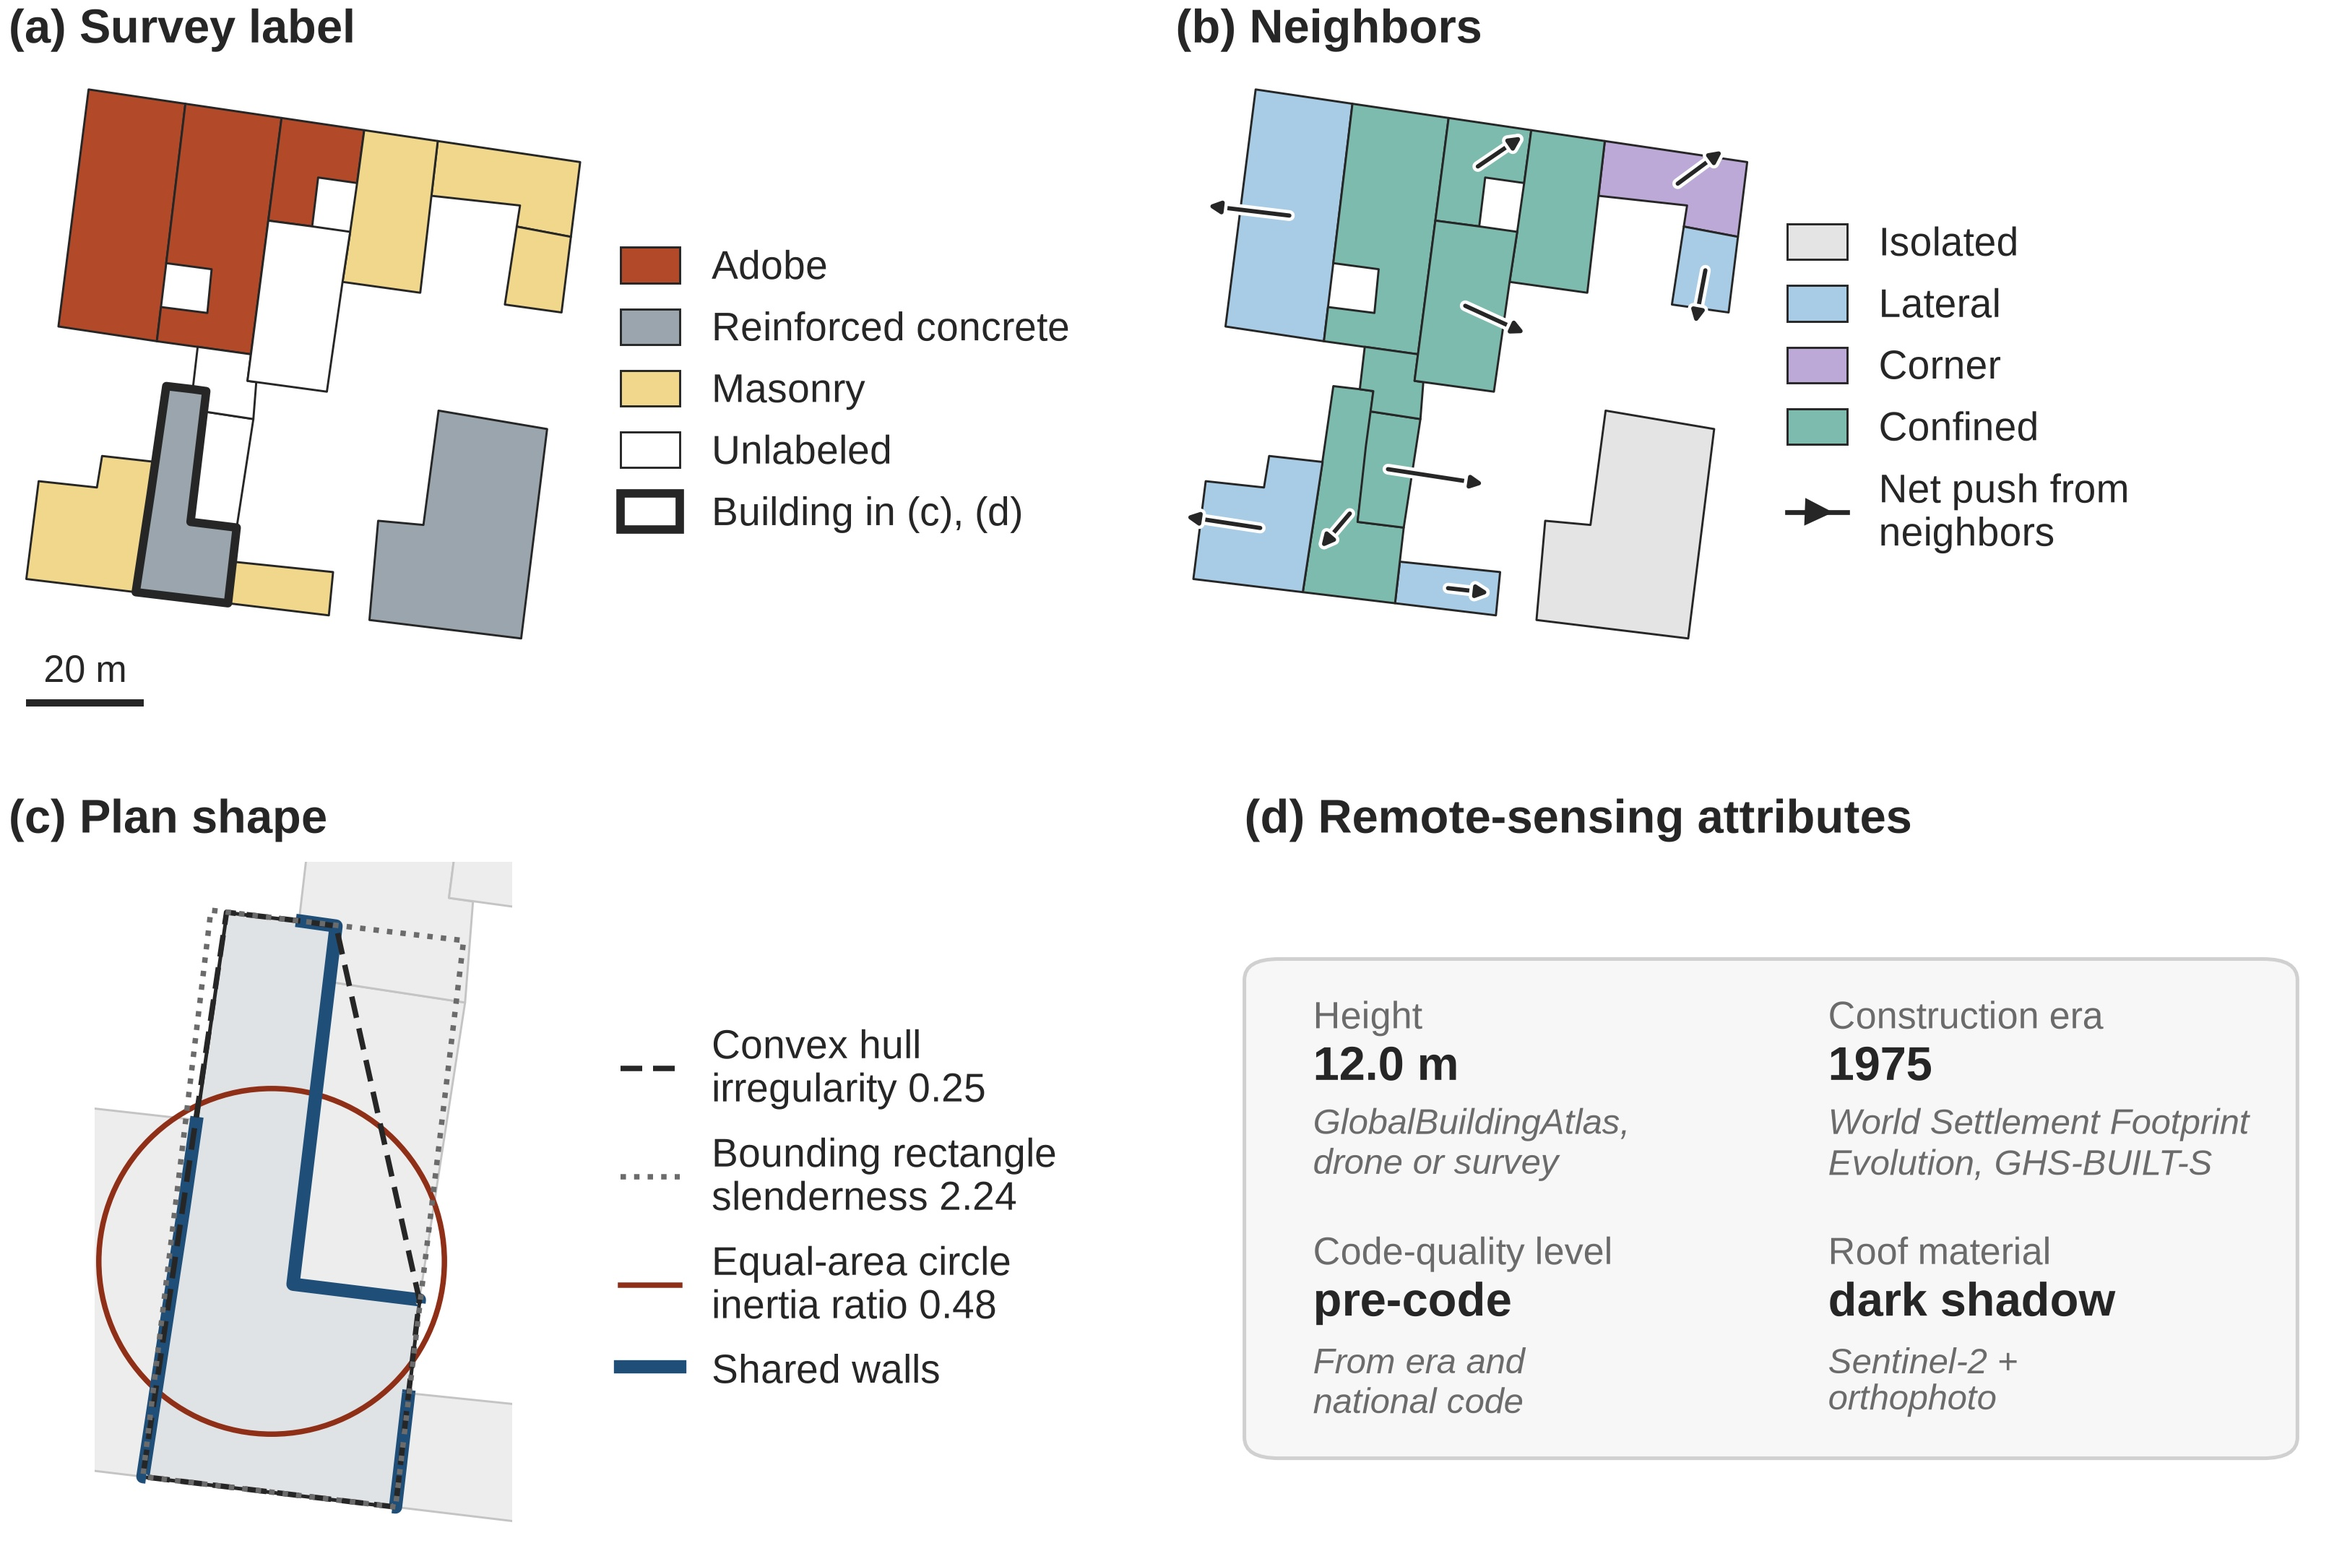
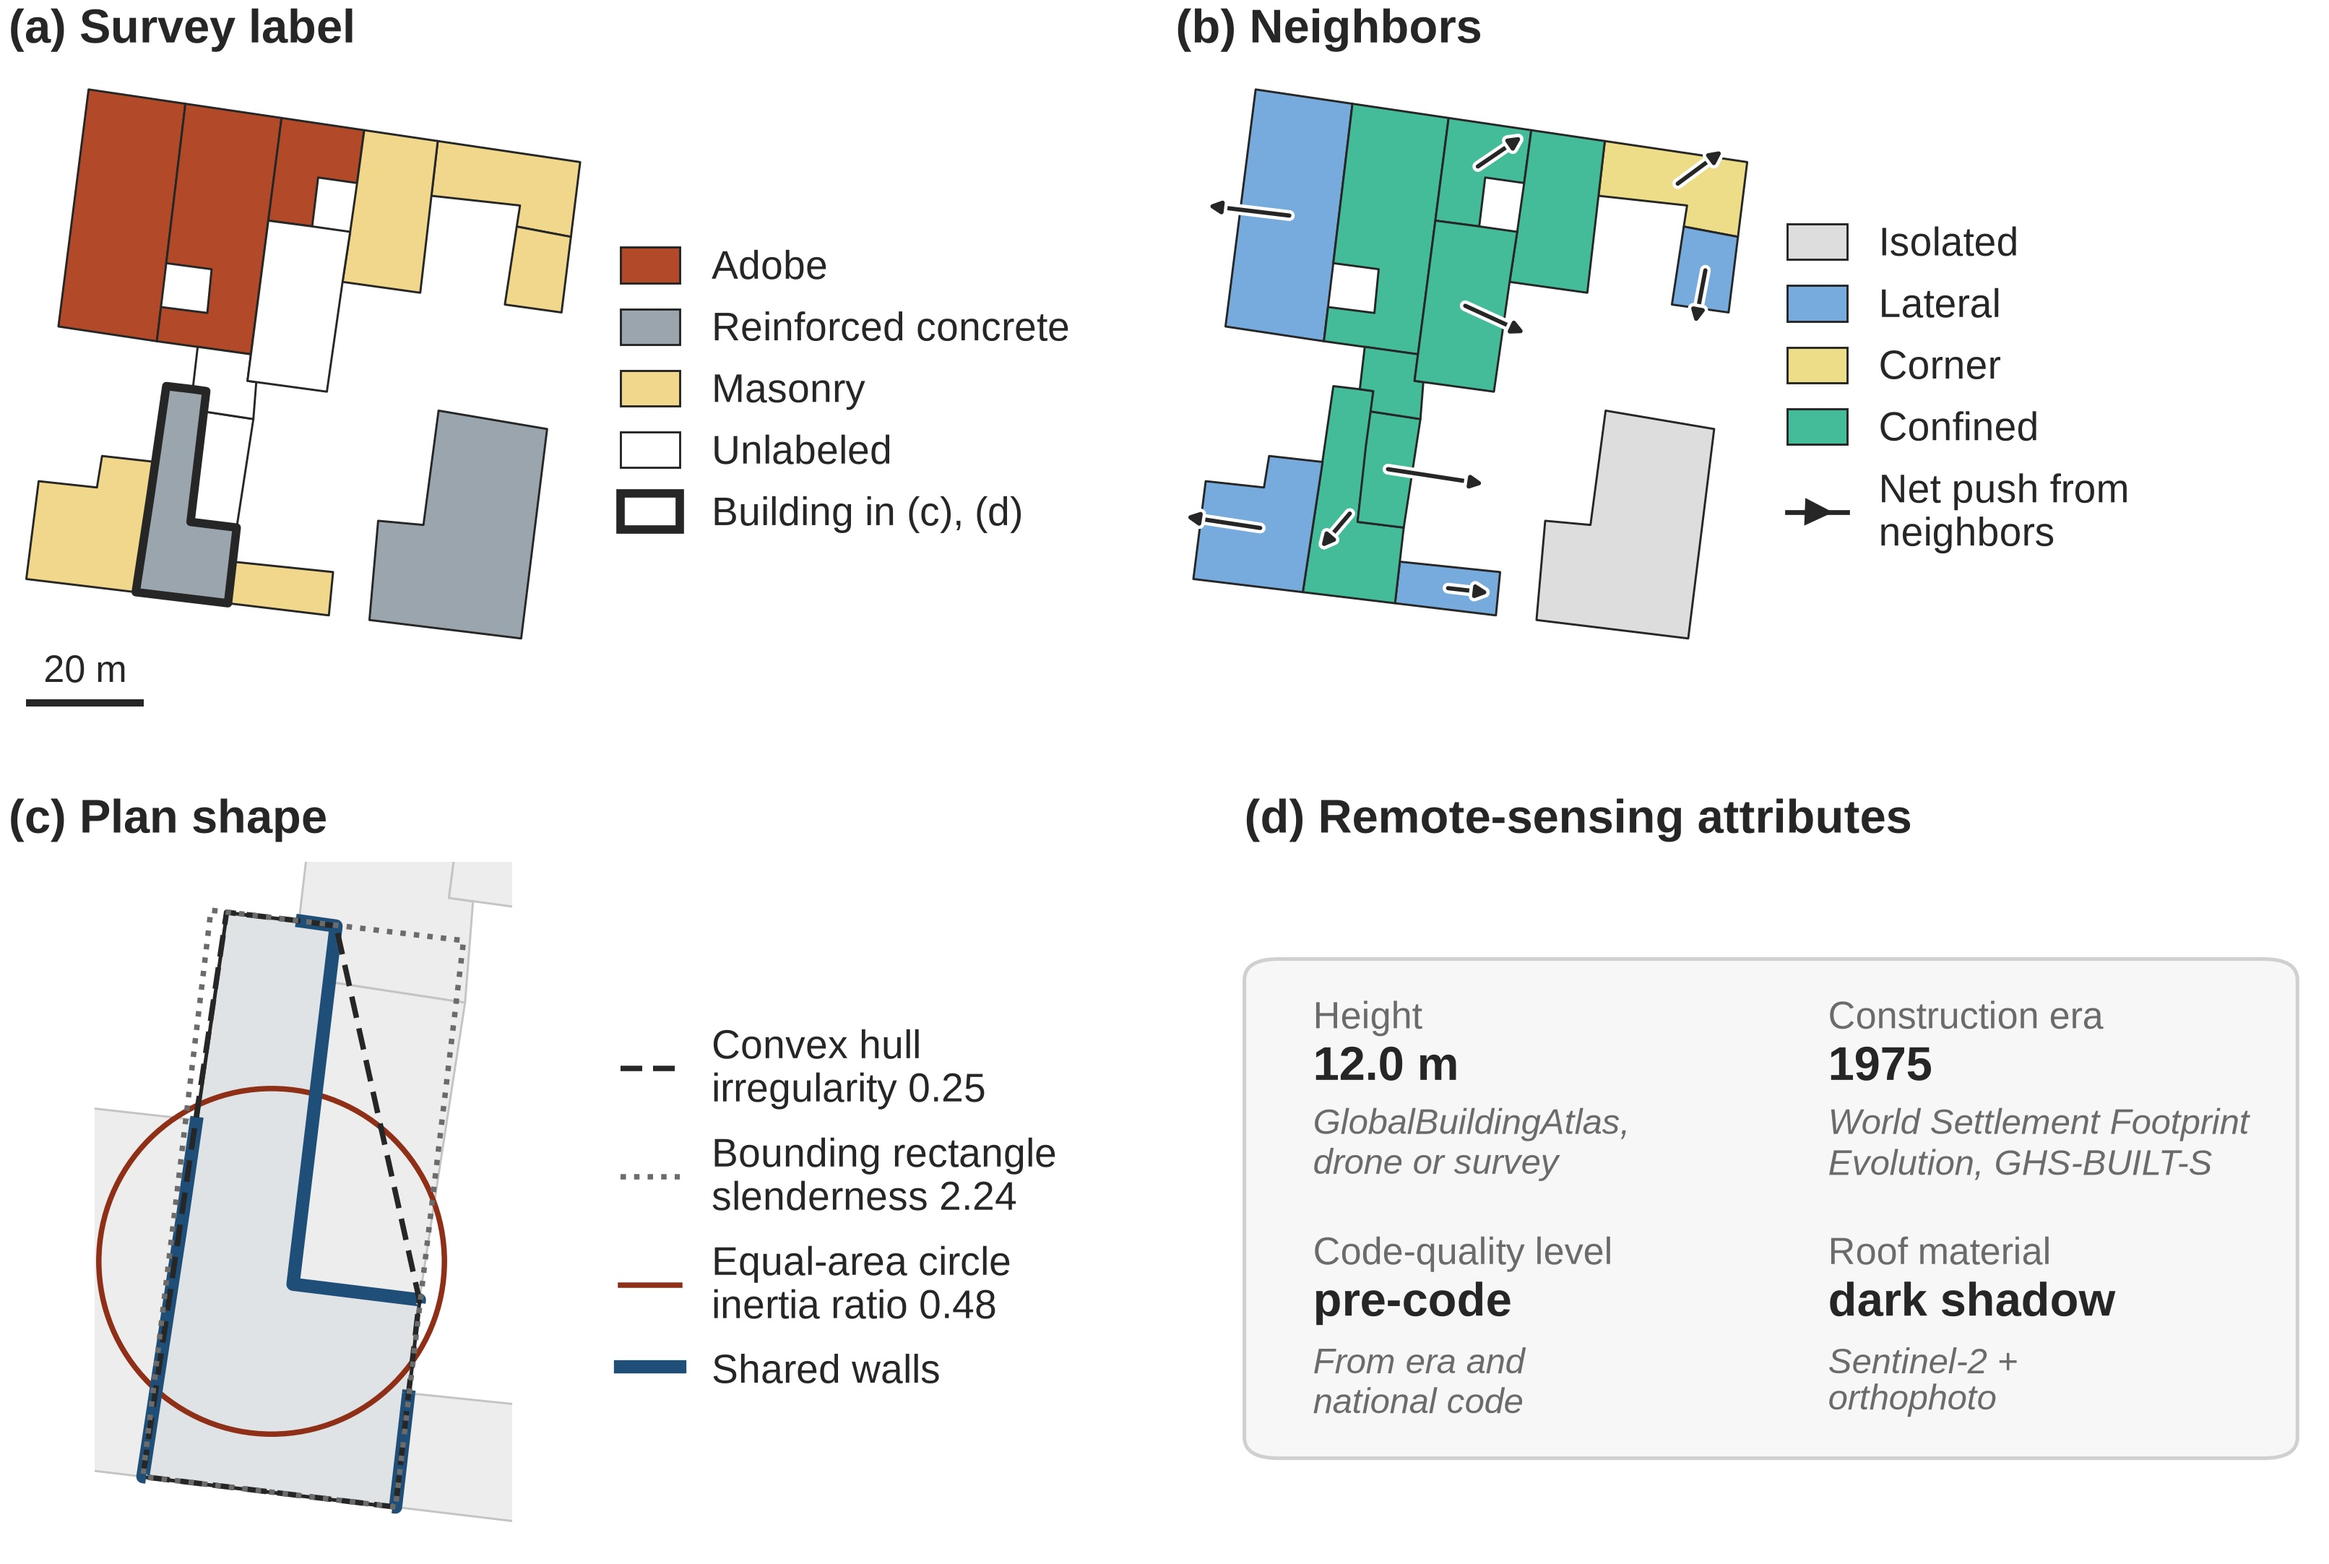
S/W class, colors, pin footprint_attributes v1.1.1

Changed region(s): [[0.4963, 0.0619, 0.8065, 0.4023]]

diff --git a/docs/map/map.js b/docs/map/map.js
@@ -20,7 +20,7 @@ const OUTLINE = { light: "#000000", dark: "#ffffff" };
 const NO_DATA = { light: "#f3f3f1", dark: "#2a2f35" };
 const LAYER = "buildings";  // layer name inside the .pmtiles files
 
-const CLASS_NAMES = { ADO: "Adobe", CR: "Reinforced concrete", M: "Masonry", S: "Steel" };
+const CLASS_NAMES = { ADO: "Adobe", CR: "Reinforced concrete", M: "Masonry", S: "Light steel and wood (S/W)" };
 const CLASS_COLORS = {
   light: { ADO: "#B24A2A", CR: "#8A949E", M: "#F0D78C", S: "#2F6DB5" },
   dark: { ADO: "#D2694A", CR: "#A9B3BC", M: "#F0D78C", S: "#5FA2EC" },
@@ -42,8 +42,8 @@ const VIEWS = {
     metallic: ["Metallic", "#9e9ac8"], bright_concrete: ["Bright concrete", "#e0e0e0"],
     dark_shadow: ["Dark or shadow", "#525252"], asphalt: ["Asphalt", "#8c6d31"] } },
   position: { label: "Position in the block", type: "cat", values: {
-    isolated: ["Isolated", "#E4E4E4"], lateral: ["Lateral", "#A8CBE6"], corner: ["Corner", "#BCA9D8"],
-    confined: ["Confined", "#7DBBAE"], torque: ["Torque", "#DE95A3"] } },
+    isolated: ["Isolated", "#DDDDDD"], lateral: ["Lateral", "#77AADD"], corner: ["Corner", "#EEDD88"],
+    confined: ["Confined", "#44BB99"], torque: ["Torque", "#BBCC33"] } },
   hull: { label: "Convex-hull irregularity", type: "ramp", domain: [0, 0.4] },
   eccentricity: { label: "Eccentricity ratio (Eurocode 8)", type: "ramp", domain: [0, 0.4] },
   compact: { label: "Compactness (Eurocode 8)", type: "ramp", domain: [0.6, 1] },

diff --git a/analysis/method_figures.py b/analysis/method_figures.py
@@ -21,7 +21,8 @@ import matplotlib.pyplot as plt
 import numpy as np
 import pandas as pd
 from footprint_attributes import position
-from footprint_attributes.geometry import max_inscribed_circle, min_bounding_box, setback_pieces
+from footprint_attributes.geometry import (main_element_a_lengths, max_inscribed_circle, min_bounding_box,
+                                           setback_pieces)
 from footprint_attributes.notebook_utils import basic_length_axis, dimension_arrow_gdfs
 from footprint_attributes.position import contact_force_vectors
 from footprint_attributes.testing_shapes import (asymmetric_l_shape_polygon, confined_quartet_gdf,
@@ -513,10 +514,11 @@ def fig_study_area() -> None:
 # Figure: footprint descriptors on simple shapes
 # ---------------------------------------------------------------------------
 
+RECT_COLOR, RECT_STYLE = "#B07A1F", (0, (4, 1.5, 1, 1.5))  # inscribed rectangle: ochre, dash-dot
 SIZE_STYLE = {  # dimension kind: (color, line style, legend label)
     "L1": (INK, "-", "Basic lengths $L_1$, $L_2$"),
     "L2": (INK, "-", None),
-    "a1": (BLUES[5], "-", "Main element $a_1$, $a_2$"),
+    "a1": (BLUES[5], "-", "Main element $a$"),
     "a2": (BLUES[5], "-", None),
     "b": ("#8F2F18", "-", "Setback $b$"),
 }
@@ -564,8 +566,18 @@ def fig_footprint_descriptors() -> None:
                                                              linewidth=0.5, linestyle=(0, (1, 1.5)), zorder=3)
         x, y, r = max_inscribed_circle(poly)
         ax.add_patch(Circle((x, y), r, fill=False, ec=BLUES[5], lw=0.6, ls=(0, (3, 1.5)), zorder=3))
+        # inscribed rectangle: a2 along dir1, a1 along dir2, around the circle's tangent points
+        u, v = np.asarray(d1)[0], np.asarray(d2)[0]
+        a1, a2, (mx, my) = main_element_a_lengths(poly, u, v)
+        corners = [np.array([mx, my]) + su * a2 / 2 * u + sv * a1 / 2 * v
+                   for su, sv in ((-1, -1), (1, -1), (1, 1), (-1, 1), (-1, -1))]
+        ax.plot(*np.array(corners).T, color=RECT_COLOR, lw=0.8, ls=RECT_STYLE, zorder=4)
         axis = basic_length_axis(g, L1, d1, L2, d2)
+        # GNDT-II uses only the dominant (a, L) pair, the one maximizing L*a (footprint_attributes)
+        dominant_a = "a1" if axis["L1"][0] * axis["a1"][0] >= axis["L2"][0] * axis["a2"][0] else "a2"
         for kind, arrows in dimension_arrow_gdfs(g, axis).items():
+            if kind in ("a1", "a2") and kind != dominant_a:
+                continue
             if kind in SIZE_STYLE and len(arrows):
                 color, ls, _ = SIZE_STYLE[kind]
                 arrows.plot(ax=ax, color=color, linestyle=ls, linewidth=0.8, zorder=5)
@@ -577,9 +589,10 @@ def fig_footprint_descriptors() -> None:
     handles = [Line2D([0], [0], color=c, ls=ls, lw=0.8, label=lab) for c, ls, lab in SIZE_STYLE.values() if lab]
     handles += [Patch(facecolor=BLUES[1], edgecolor="none", label="Setback area"),
                 Line2D([0], [0], color=BLUES[5], lw=0.6, ls=(0, (3, 1.5)), label="Largest inscribed circle"),
+                Line2D([0], [0], color=RECT_COLOR, lw=0.8, ls=RECT_STYLE, label="Inscribed rectangle"),
                 Line2D([0], [0], color=MUTED, lw=0.5, ls=(0, (1, 1.5)), label="Bounding rectangle")]
-    fig.legend(handles=handles, loc="center", ncol=3, frameon=False, fontsize=6.4,
-               bbox_to_anchor=(0.5, 0.465), handlelength=1.8, columnspacing=1.2)
+    fig.legend(handles=handles, loc="center", ncol=4, frameon=False, fontsize=6.4,
+               bbox_to_anchor=(0.5, 0.465), handlelength=1.8, columnspacing=1.0)
 
     for k, (name, gdf) in enumerate(scenarios):
         ax = fig.add_subplot(bottom[0, k])

diff --git a/analysis/paper_style.py b/analysis/paper_style.py
@@ -8,7 +8,7 @@ Palette logic:
   the train/validation/test partitions.
 - Structural classes use "material" colors, distinct from the blue ramp:
   brick red (adobe), concrete gray (reinforced concrete), sand (masonry) and
-  dark slate (steel), far enough apart in lightness to survive color blindness.
+  dark slate (light steel and wood), far enough apart in lightness to survive color blindness.
 - Relative-position categories use distinct muted hues (a single blue ramp
   was too hard to tell apart on a map).
 """
@@ -29,15 +29,18 @@ BLUES = ["#F2F6FA", "#D6E4F0", "#A9C6DF", "#6F9CC3", "#3E6F9E", "#1F4E79"]
 ACCENT = BLUES[5]
 PARTITION_COLORS = {"train": BLUES[5], "validation": BLUES[3], "test": BLUES[1]}
 POSITION_COLORS = {
-    "isolated": "#E4E4E4",  # gray
-    "lateral": "#A8CBE6",   # sky blue
-    "corner": "#BCA9D8",    # lavender
-    "confined": "#7DBBAE",  # teal
-    "torque": "#DE95A3",    # rose
+    # Paul Tol's "light" scheme, distinguishable with deuteranopia, protanopia and tritanopia
+    "isolated": "#DDDDDD",  # pale gray
+    "lateral": "#77AADD",   # light blue
+    "corner": "#EEDD88",    # light yellow
+    "confined": "#44BB99",  # mint
+    "torque": "#BBCC33",    # pear
 }
 
 CLASS_COLORS = {"ADO": "#B24A2A", "CR": "#9AA5AE", "M": "#F0D78C", "S": "#3D4F63"}
-CLASS_NAMES = {"ADO": "Adobe", "CR": "Reinforced concrete", "M": "Masonry", "S": "Steel"}
+CLASS_NAMES = {"ADO": "Adobe", "CR": "Reinforced concrete", "M": "Masonry", "S": "Light steel and wood (S/W)"}
+# Short labels for axes. The data and models keep the code S for light steel and wood.
+CLASS_SHORT = {"ADO": "ADO", "CR": "CR", "M": "M", "S": "S/W"}
 CLASS_ORDER = ["ADO", "CR", "M", "S"]
 
 SEQUENTIAL_CMAP = LinearSegmentedColormap.from_list("paper_blues", ["#FFFFFF"] + BLUES[1:])

diff --git a/analysis/results_figures.py b/analysis/results_figures.py
@@ -17,7 +17,8 @@ import numpy as np
 import pandas as pd
 from sklearn.metrics import confusion_matrix
 
-from paper_style import ACCENT, BLUES, INK, MUTED, SEQUENTIAL_CMAP, TEXT_WIDTH_IN, apply_style, save_figure
+from paper_style import (ACCENT, BLUES, CLASS_SHORT, INK, MUTED, SEQUENTIAL_CMAP, TEXT_WIDTH_IN, apply_style,
+                         save_figure)
 
 GROUP_DIR = Path(__file__).resolve().parent.parent / "experiments"
 OUT = Path(__file__).resolve().parent.parent / "figures"
@@ -101,7 +102,7 @@ def fig_confusion_matrices():
             enc = prep["label_mapping"]
         code_to_name = {v: k for k, v in enc.items()}
         labels = sorted(code_to_name)
-        names = [code_to_name[c] for c in labels]
+        names = [CLASS_SHORT.get(code_to_name[c], code_to_name[c]) for c in labels]
 
         y_true = df["y_true"].to_numpy()
         y_pred = df[f"pred_{model}"].to_numpy()

diff --git a/analysis/make_tables.py b/analysis/make_tables.py
@@ -69,7 +69,8 @@ def table1() -> None:
         print("Table 1 skipped: run data_stats.py first")
         return
     classes = ["ADO", "CR", "M", "S"]
-    lines = [r"\begin{tabular}{lrrrrr}", r"\toprule", "City & $N$ & " + " & ".join(classes) + r" \\", r"\midrule"]
+    header = [c if c != "S" else "S/W" for c in classes]  # code S is light steel and wood
+    lines = [r"\begin{tabular}{lrrrrr}", r"\toprule", "City & $N$ & " + " & ".join(header) + r" \\", r"\midrule"]
     for key, label in [*CITY_NAMES.items(), ("All", "All three cities")]:
         if key == "All":
             lines.append(r"\midrule")

diff --git a/results/tables/table1_class_imbalance.tex b/results/tables/table1_class_imbalance.tex
@@ -1,6 +1,6 @@
 \begin{tabular}{lrrrrr}
 \toprule
-City & $N$ & ADO & CR & M & S \\
+City & $N$ & ADO & CR & M & S/W \\
 \midrule
 Guatemala City & 4{,}680 & 174 (4\%) & 492 (11\%) & 3{,}991 (85\%) & 23 (0\%) \\
 San Jos\'e & 6{,}996 & 2 (0\%) & 294 (4\%) & 6{,}440 (92\%) & 260 (4\%) \\

diff --git a/README.md b/README.md
@@ -38,7 +38,7 @@ Each file holds every building footprint of one survey area. Surveyed buildings 
 
 Columns: `id`, `dataset` (file name), `city`, `block_id` (group of touching buildings), `survey_structural_system`, the 27 model features and `geometry`. The features are `height` (m), `year` (construction era), `code_quality`, `roof_material`, 18 plan-shape indices and 5 neighbor descriptors, computed with [footprint_attributes](https://github.com/GeomaticsCaminosUPM/footprint_attributes) 1.1 by `analysis/footprint_features.py` (contact forces weighted by building height, walls closer than 10 cm count as shared). That script needs the real footprints, so it is not part of `reproduce_paper.py`.
 
-The survey codes are grouped into the four classes of the paper by `label_replacements` in `experiments/main.yaml`: ADO (adobe), CR (reinforced concrete, including steel frames), M (masonry) and S (steel, light steel), while I is dropped.
+The survey codes are grouped into the four classes of the paper by `label_replacements` in `experiments/main.yaml`: ADO (adobe), CR (reinforced concrete, including steel frames), M (masonry) and S/W (light steel and light wood, merged because they are structurally similar lightweight framed systems, code `S` in the data), while I is dropped.
 
 ![Study area](docs/figures/study_area.jpg)
 
